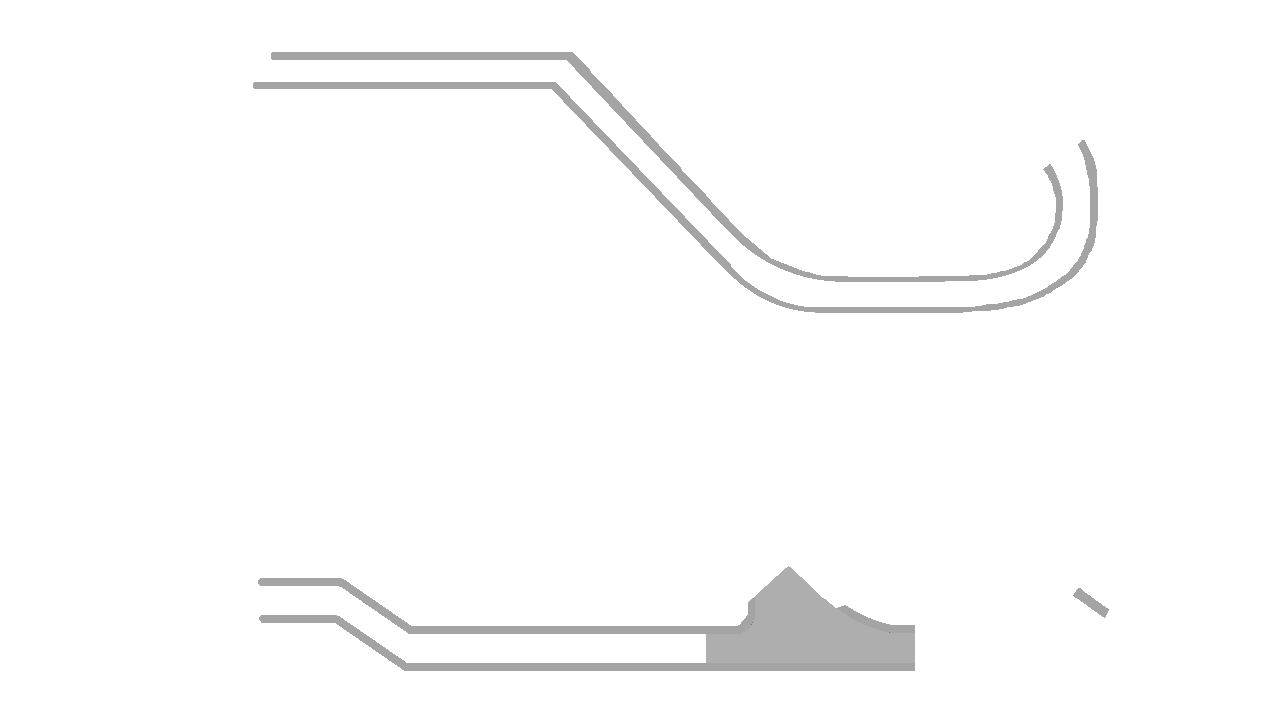
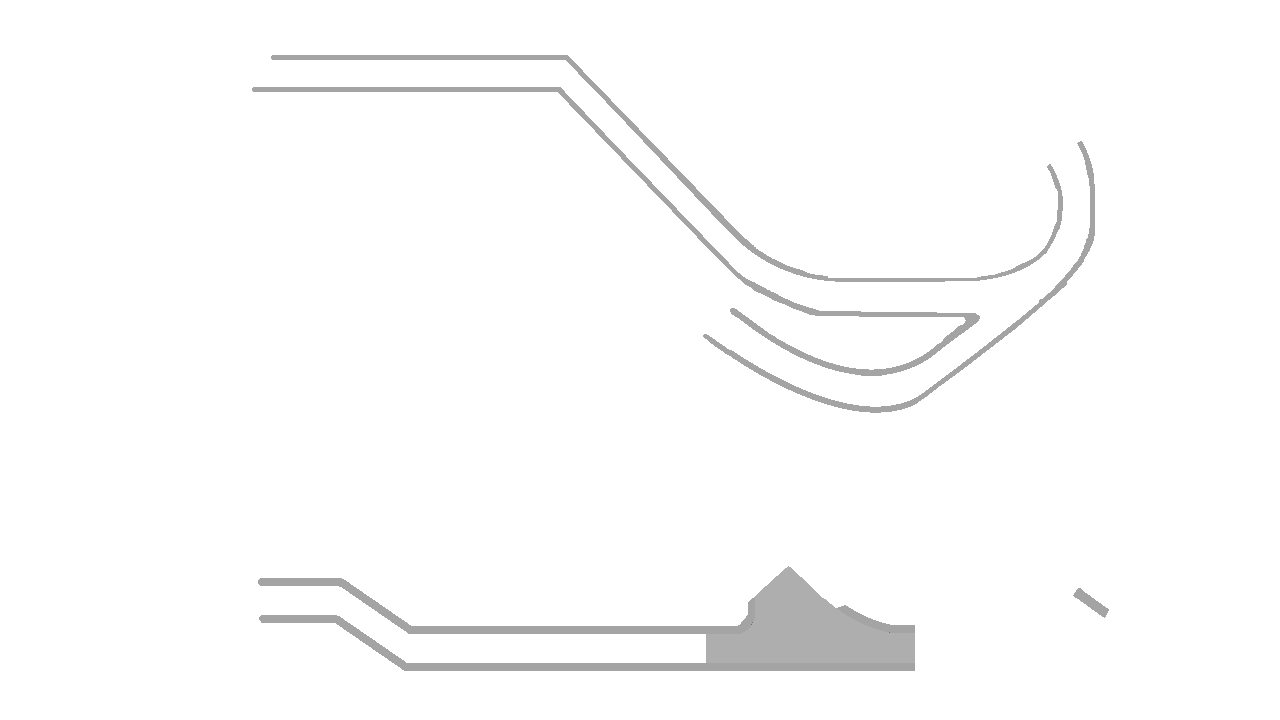
optional wall can now be enabled/disabled

diff --git a/games/pinball/source/optwall.cpp b/games/pinball/source/optwall.cpp
@@ -17,7 +17,7 @@ OptWall::OptWall(C2DRenderer* renderer, b2World& world, int optWallId, int layer
     fixtureDef.shape = &chain;
     fixtureDef.density = 0.0f;
     fixtureDef.friction = 0.3f;
-    fixtureDef.filter.maskBits = 0xFFFF;
+    fixtureDef.filter.maskBits = 1 << layerID;
     fixtureDef.filter.categoryBits = 1 << layerID;
     m_fixture = body->CreateFixture(&fixtureDef);
 
@@ -27,7 +27,15 @@ OptWall::OptWall(C2DRenderer* renderer, b2World& world, int optWallId, int layer
     addPointsToShape(cshape, points);
     cshape->getVertexArray()->setPrimitiveType(PrimitiveType::LineStrip);
     renderer->add(cshape);
+#else
+    m_textureEnabled = new C2DTexture(renderer->getIo()->getDataReadPath() + "optwall" + std::to_string(optWallId) + "enabled.png");
+    m_textureEnabled->setLayer(layerID * 2 + 1);
+    renderer->add(m_textureEnabled);
+    m_textureDisabled = new C2DTexture(renderer->getIo()->getDataReadPath() + "optwall" + std::to_string(optWallId) + "disabled.png");
+    m_textureDisabled->setLayer(-99);
+    renderer->add(m_textureDisabled);
 #endif
+    //disable();
 }
 
 void OptWall::enable() {
@@ -35,6 +43,8 @@ void OptWall::enable() {
     filterData.maskBits = 1 << m_layerID;
     filterData.categoryBits = 1 << m_layerID;
     m_fixture->SetFilterData(filterData);
+    m_textureEnabled->setLayer(m_layerID * 2 + 1);
+    m_textureDisabled->setLayer(-99);
 }
 
 void OptWall::disable() {
@@ -42,4 +52,6 @@ void OptWall::disable() {
     filterData.maskBits = 0;
     filterData.categoryBits = 0;
     m_fixture->SetFilterData(filterData);
+    m_textureEnabled->setLayer(-99);
+    m_textureDisabled->setLayer(m_layerID * 2);
 }

diff --git a/games/pinball/source/optwall.h b/games/pinball/source/optwall.h
@@ -16,6 +16,8 @@ class OptWall {
     private:
         b2Fixture* m_fixture;
         int m_layerID;
+        C2DTexture* m_textureEnabled;
+        C2DTexture* m_textureDisabled;
 
         vector<float> m_leftRailWall = {1037.5, 303.3, 1032.5, 305.7, 1027.5, 306.9, 1022.5, 308.1, 1017.0, 310.1, 1011.5, 312.2, 992.0, 312.8, 972.5, 313.5, 972.5, 315.5, 972.5, 317.5, 987.0, 317.8, 1001.5, 318.1, 1009.8, 317.1, 1018.1, 316.1, 1021.3, 314.6, 1024.5, 313.2, 1030.0, 312.0, 1035.5, 310.7, 1038.0, 309.3, 1040.5, 307.9, 1043.5, 306.1, 1046.5, 304.3, 1046.5, 302.9, 1046.5, 301.5, 1044.5, 301.2, 1042.5, 301.0, 1037.5, 303.3};
         vector<vector<float>> m_WallShapes = {

diff --git a/games/pinball/source/kicker.cpp b/games/pinball/source/kicker.cpp
@@ -57,7 +57,7 @@ Kicker::Kicker(C2DRenderer* renderer, b2World& world, bool right) {
 void Kicker::update() {
     b2Vec2 position = m_body->GetPosition();
 #if DEBUG
-    m_shape->setPosition((position.x - m_halfWidth) * g_graphicsScale, (position.y - m_halfHeight) * g_graphicsScale);
+    m_shape->setPosition((position.x + m_halfWidth) * g_graphicsScale, (position.y - m_halfHeight) * g_graphicsScale);
 #else
     m_texture->setPosition((position.x - m_halfWidth) * g_graphicsScale, (position.y - m_halfHeight) * g_graphicsScale);
 #endif

diff --git a/games/pinball/source/table.cpp b/games/pinball/source/table.cpp
@@ -67,7 +67,7 @@ Table::Table(C2DRenderer* renderer, b2World& world) :
     Ramp ramp1DownMid(renderer, world, 12, 1);
     m_ramps.push_back(ramp1DownMid);
 
-    OptWall leftRailWall(renderer, world, 0, 2);
+    OptWall* leftRailWall = new OptWall(renderer, world, 0, 2);
     m_optWalls.push_back(leftRailWall);
 
     Bumper* bumper1 = new Bumper(renderer, world, 1, 8.6, 2.1);

diff --git a/games/pinball/source/table.h b/games/pinball/source/table.h
@@ -35,7 +35,7 @@ class Table : public b2ContactListener {
     private:
         std::vector<Layer> m_layers;
         std::vector<Ramp> m_ramps;
-        std::vector<OptWall> m_optWalls;
+        std::vector<OptWall*> m_optWalls;
         std::vector<Bumper*> m_bumpers;
         std::vector<Pinball*> m_pinballs;
         Scoreboard m_scoreboard;

diff --git a/games/pinball/source/util.h b/games/pinball/source/util.h
@@ -5,7 +5,7 @@
 #include <vector>
 #include "cross2d/c2d.h"
 
-#define DEBUG 1
+#define DEBUG 0
 
 using namespace c2d;
 
